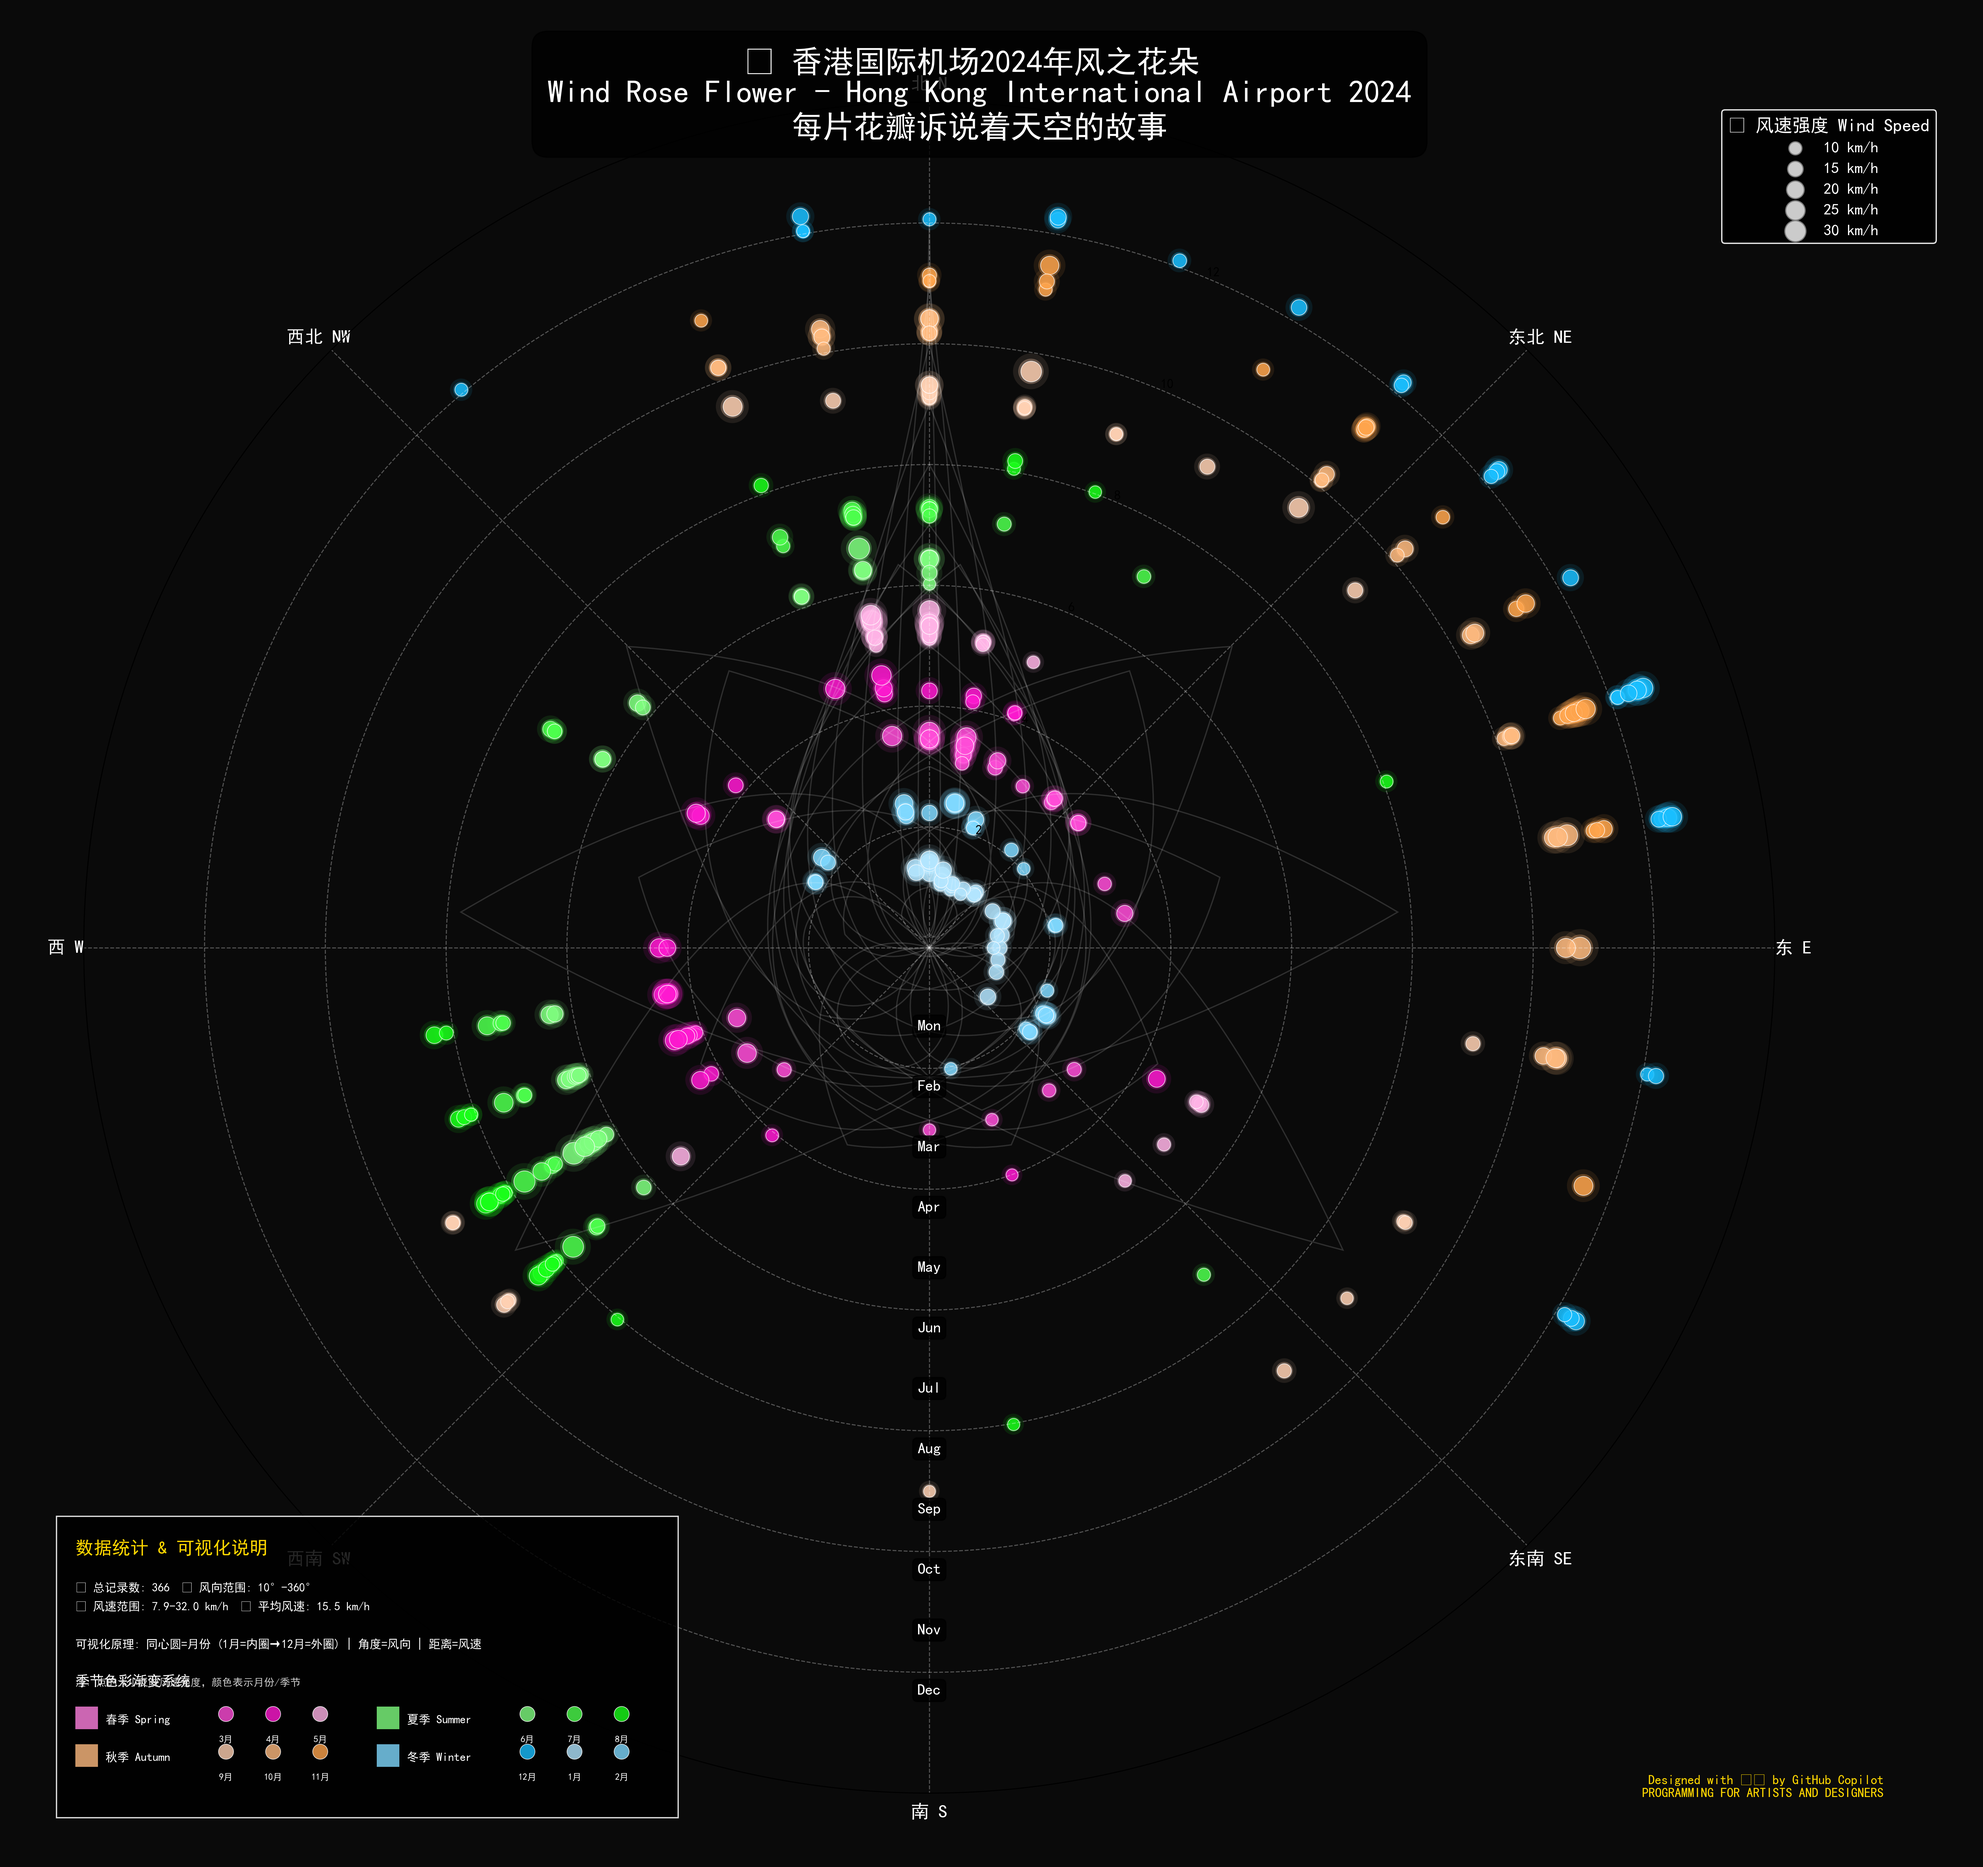
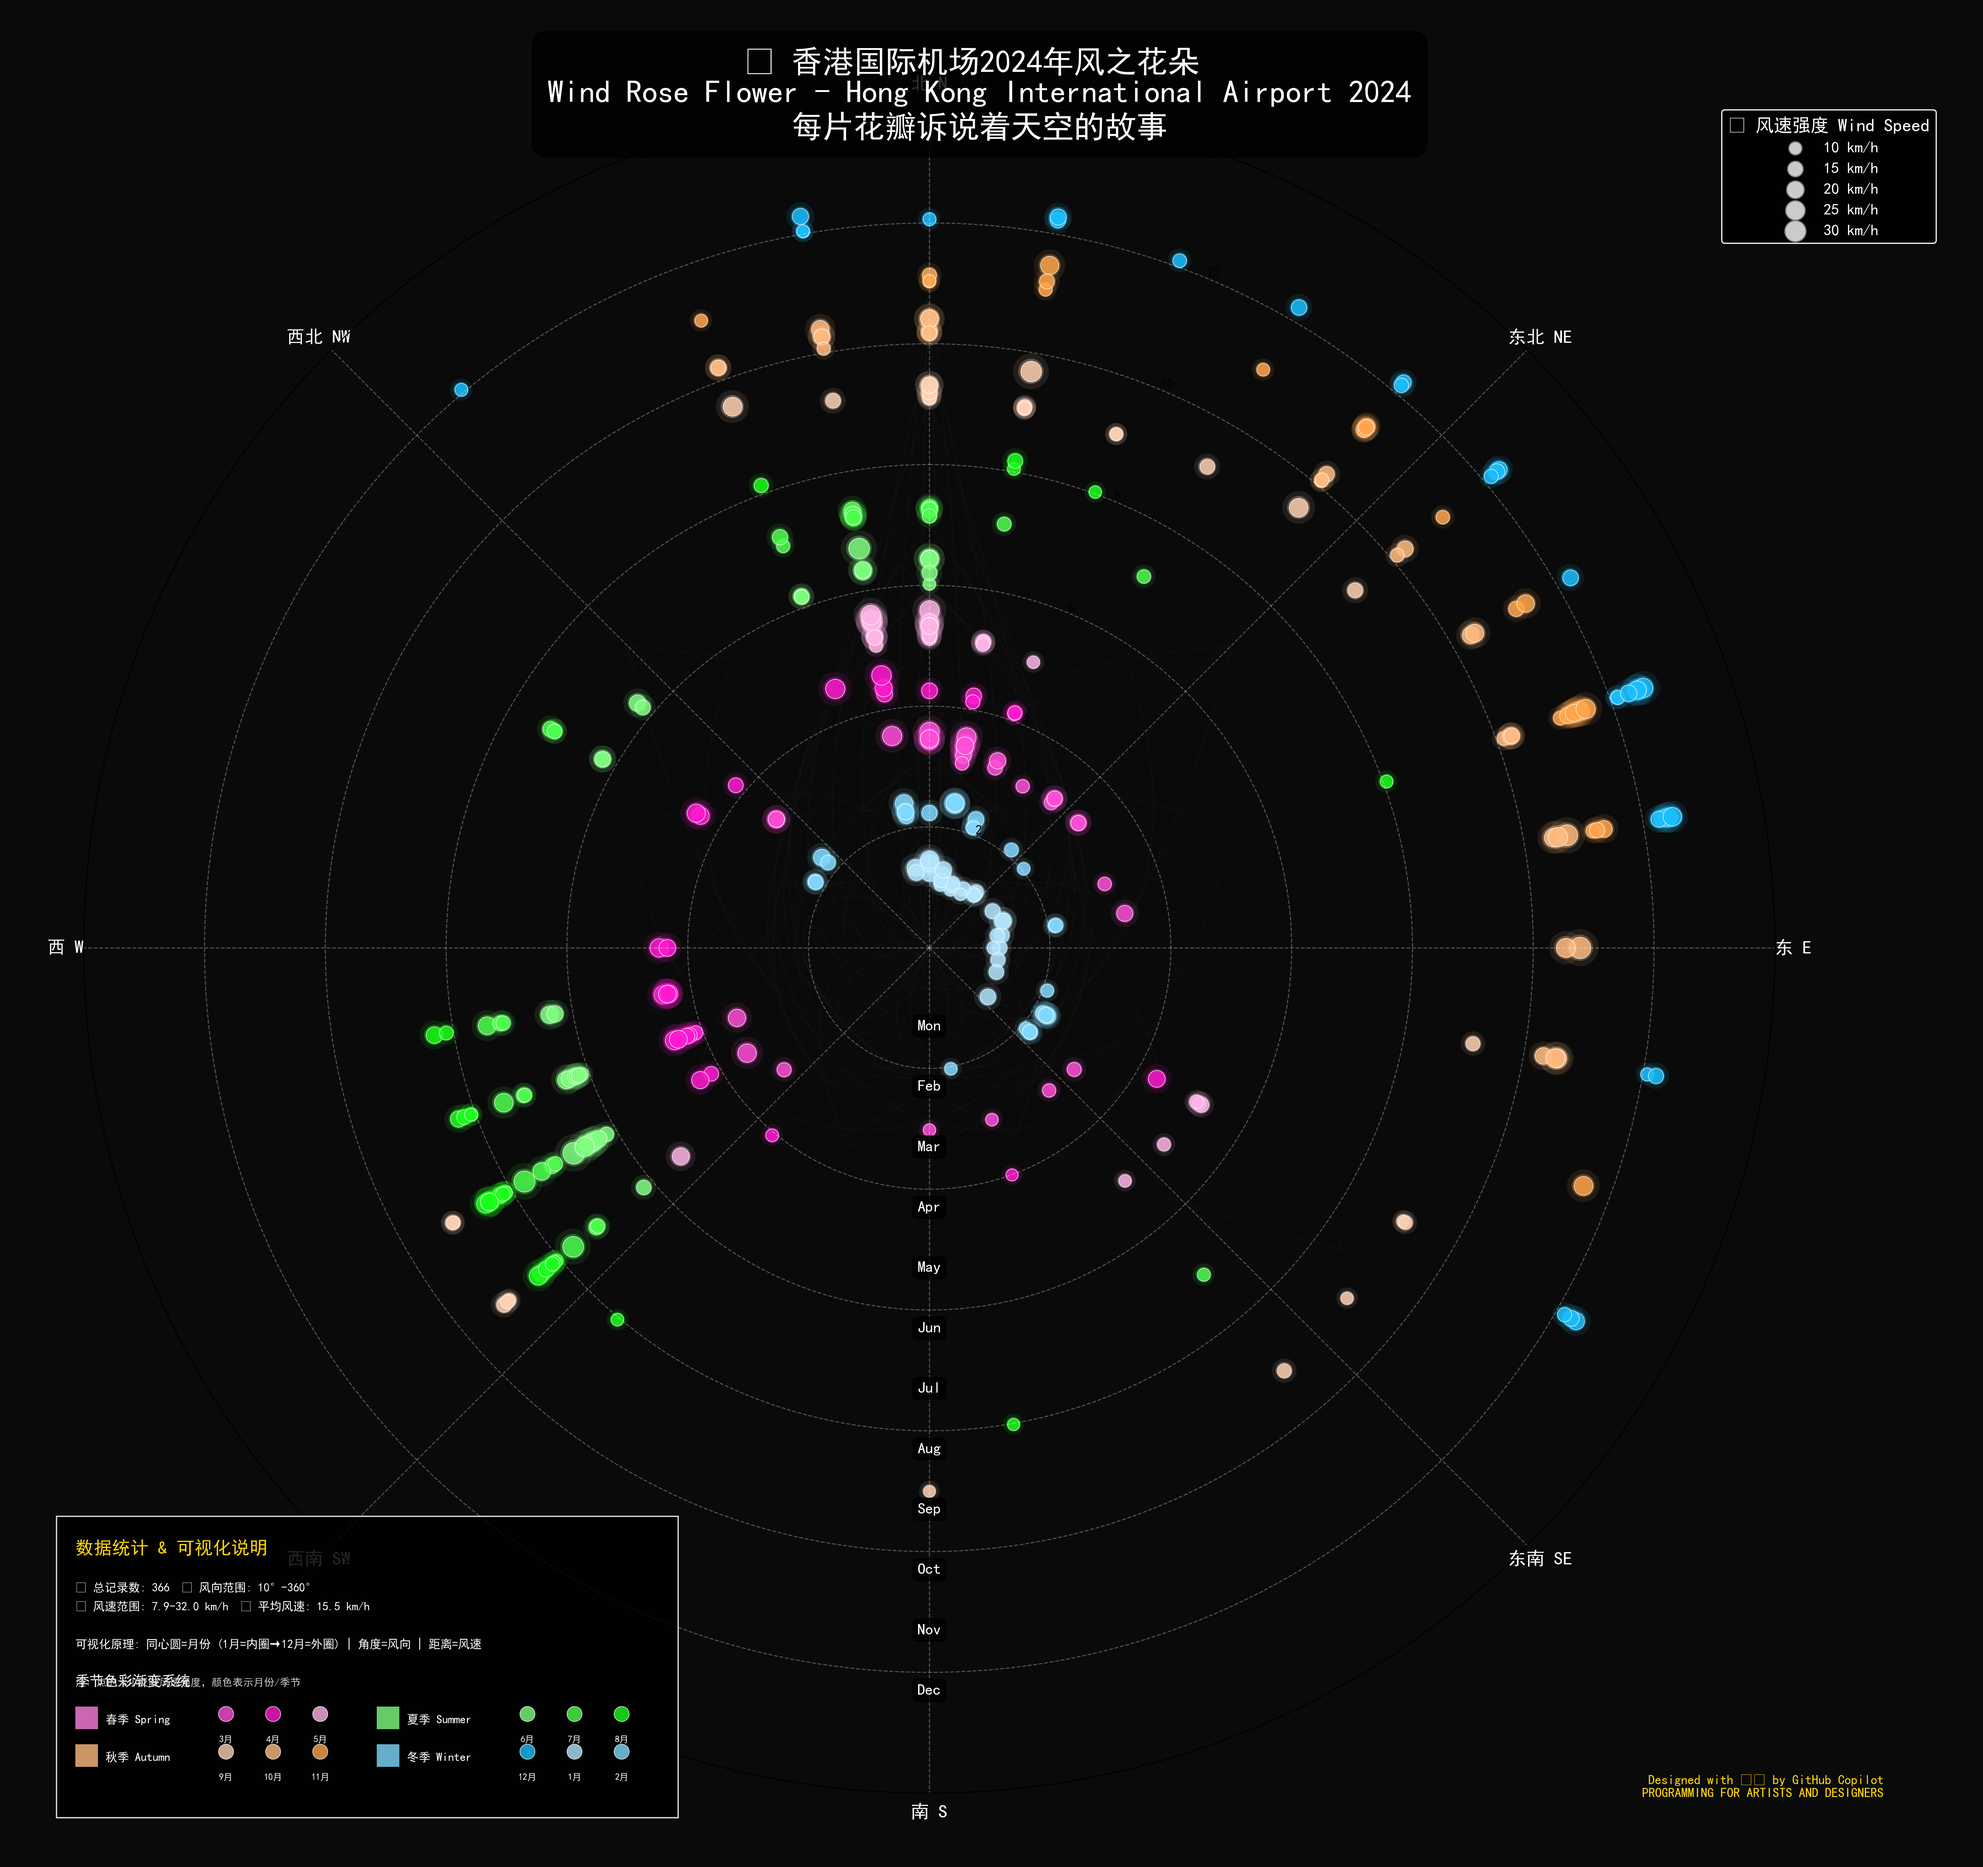
Flower.2

Changed region(s): [[0.3743, 0.3422, 0.5614, 0.5911], [0.4367, 0.28, 0.4991, 0.3111]]

diff --git a/Wind-data-visualization/enhanced_wind_flower.py b/Wind-data-visualization/enhanced_wind_flower.py
@@ -372,7 +372,7 @@ class EnhancedWindFlowerVisualizer:
         
         # 艺术签名
         plt.figtext(0.98, 0.02, 
-                   'Designed with ❤ by GitHub Copilot\nPROGRAMMING FOR ARTISTS AND DESIGNERS',
+                   'PROGRAMMING FOR ARTISTS AND DESIGNERS',
                    fontsize=10, color='#FFD700', style='italic',
                    horizontalalignment='right', verticalalignment='bottom')
         
